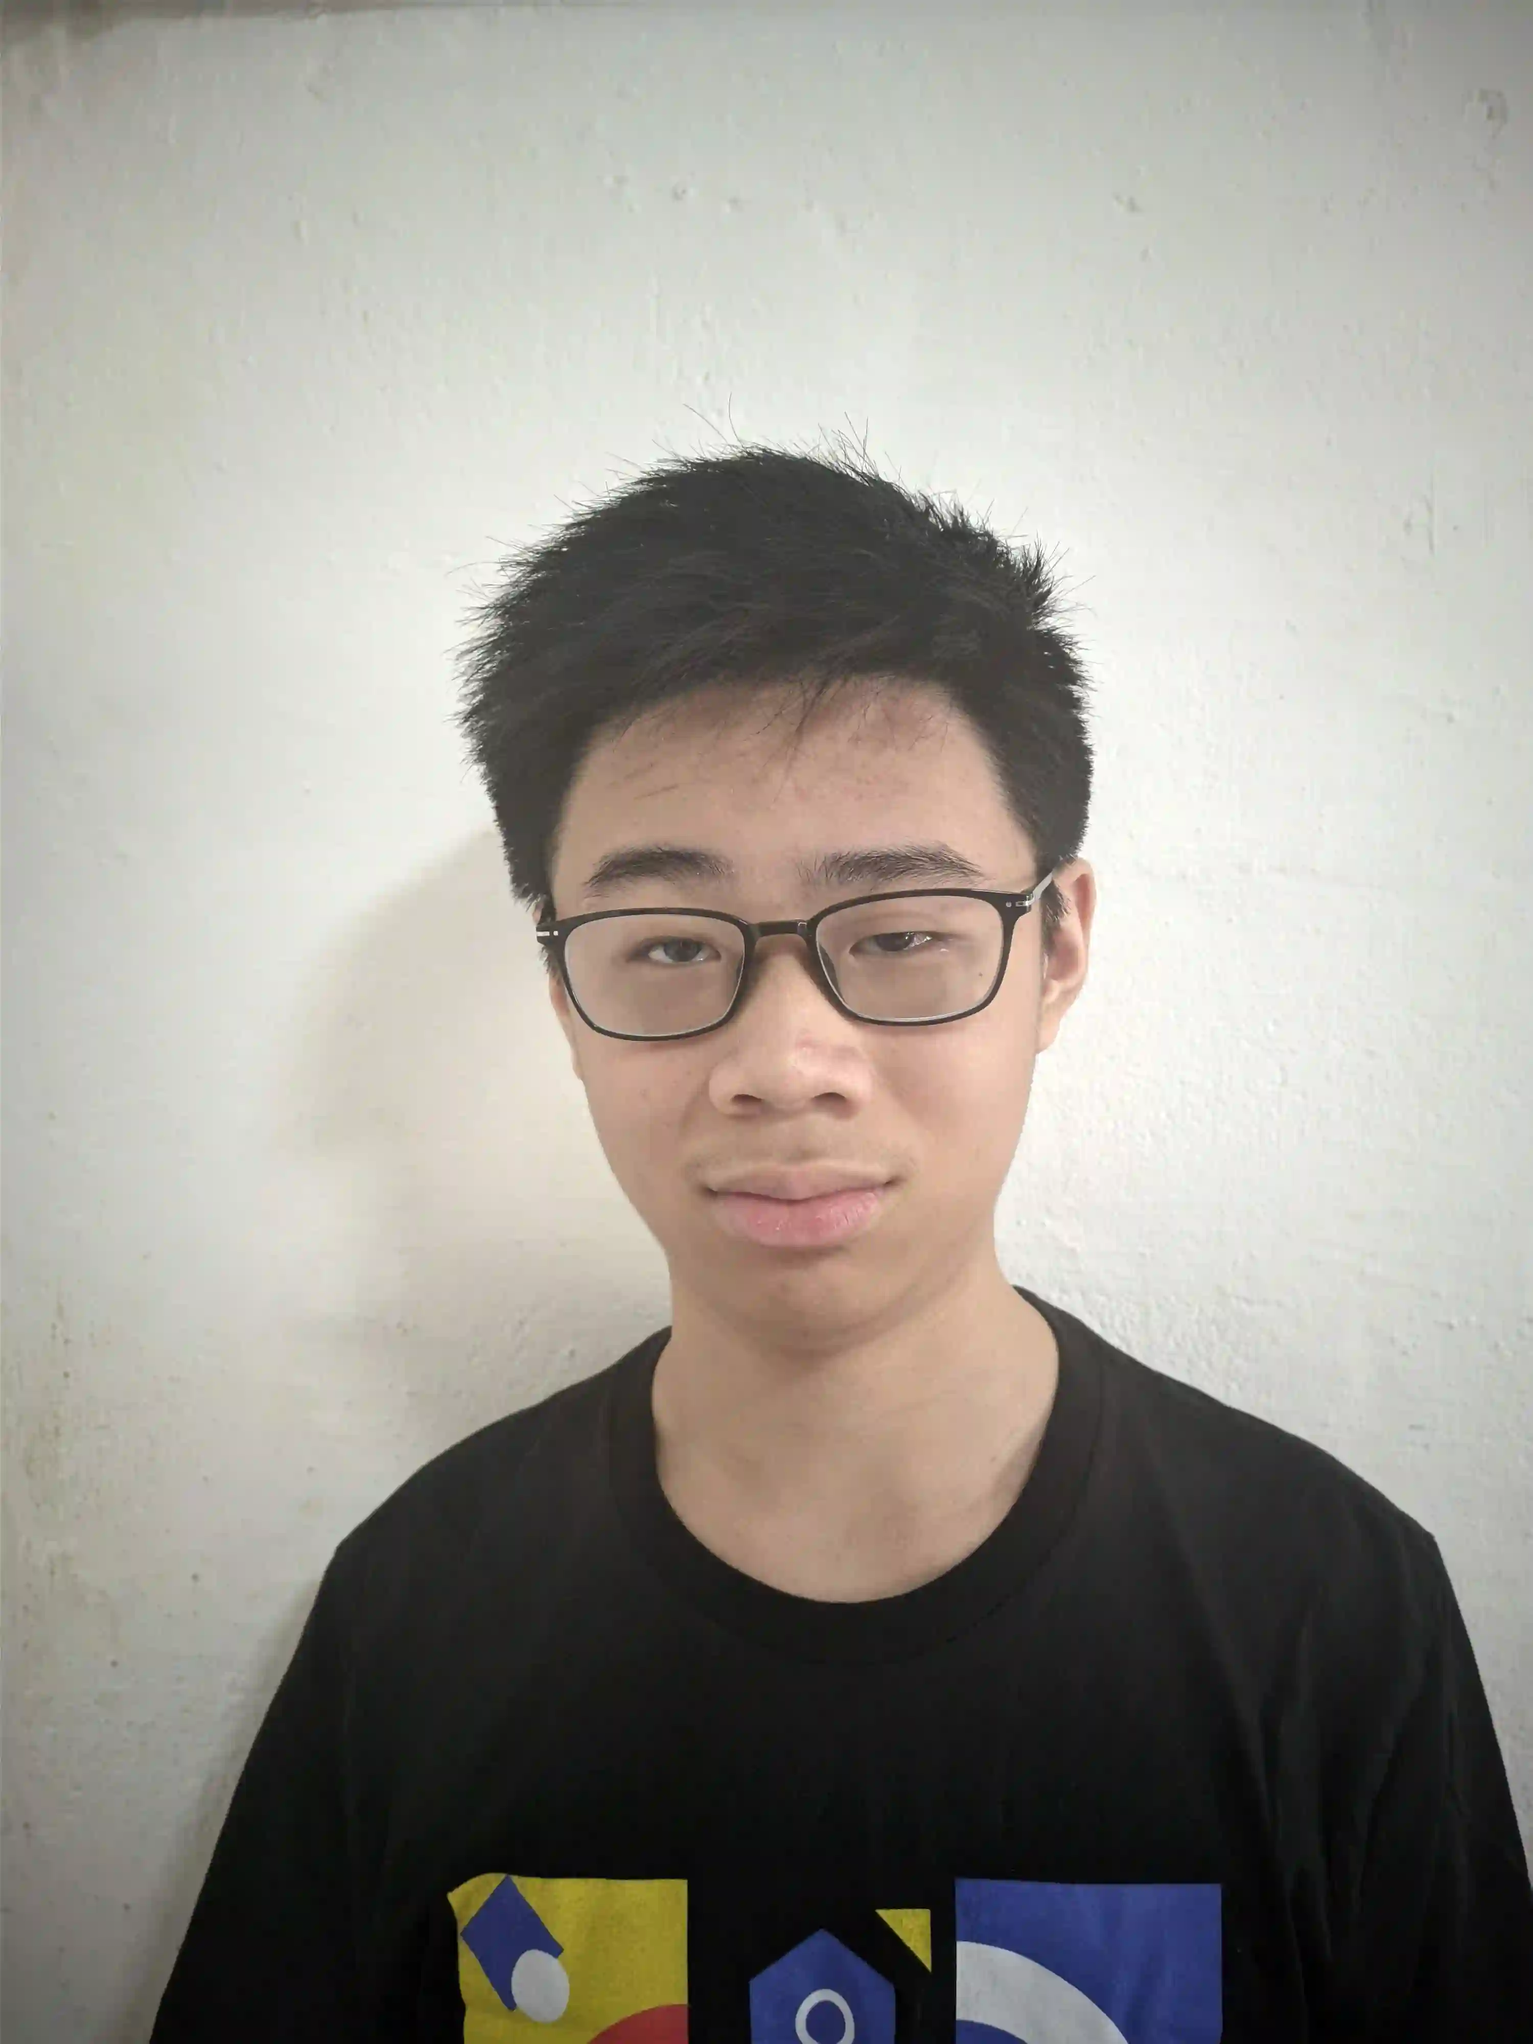
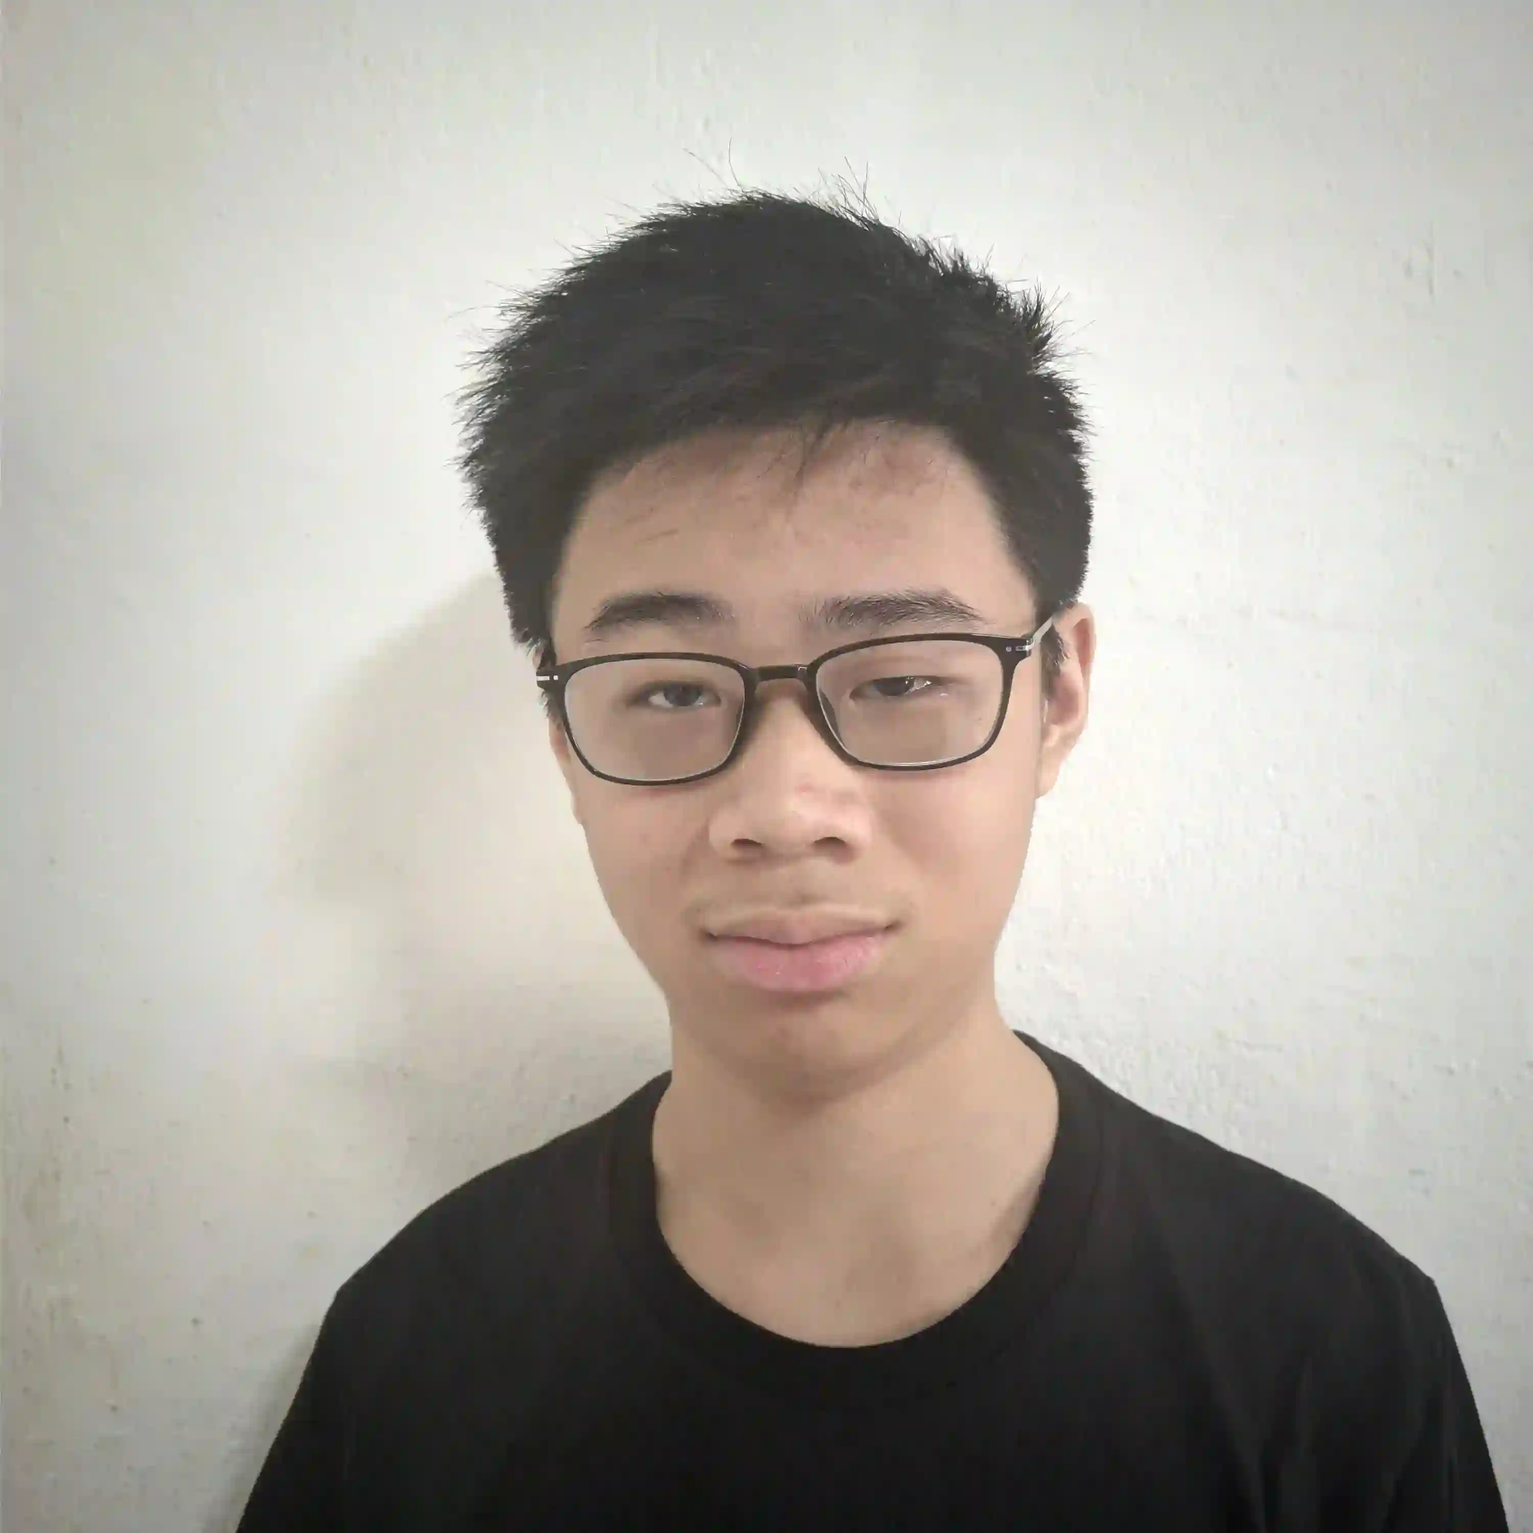
v1.6.2: updated team page for 2024 (#15)
* updated team page for 2024

* Convert /teams/ppl images to webp

* fix images with spaces in their filename

---------

diff --git a/pages/team.vue b/pages/team.vue
@@ -16,7 +16,7 @@
               </PageHead>
 
               
-            <TabGroup :defaultIndex="Object.keys(oics).indexOf(year)">
+            <TabGroup :defaultIndex="Object.keys(oics).indexOf(year.toString())">
               <TabList class="flex item-center rounded-xl w-96 justify-center mx-auto mb-8">
                 <Tab v-for="(category, index) in Object.keys(oics)"
                   as="template" :key="category" v-slot="{ selected }">
@@ -33,7 +33,7 @@
                 </Tab>
               </TabList>
               <TabPanels class="mt-2">
-                <TabPanel v-for="[year, oic] in Object.entries(oics)" :key="year" v-slot="{ selected }" class="p-3 focus:outline-none">
+                <TabPanel v-for="[year, oic] in Object.entries(oics)" :key="year.toString()" v-slot="{ selected }" class="p-3 focus:outline-none">
                   <div class="flex flex-wrap justify-center">
                     <TeamCard class="m-2" v-for="(teamMember, index) in oic" :key="index" :teamMember="teamMember"></TeamCard>
                   </div>
@@ -46,7 +46,7 @@
           </section>
 
           <div class="pt-24 pb-8 justify-center">
-            <TabGroup :defaultIndex="2">
+            <TabGroup :defaultIndex="nearestMonthIndex">
               <TabList class="flex item-center rounded-xl bg-orange-200 w-96 justify-center mx-auto mb-8">
                 <Tab v-for="(category, index) in sections"
                   as="template" :key="category" v-slot="{ selected }">
@@ -83,7 +83,7 @@
                 <div class="text-900 font-bold text-5xl mb-3 text-gray-900 dark:text-white">Join Our Team</div>
                 <div class="text-700 text-2xl mb-5 text-gray-600 dark:text-gray-400">Be a part of a team of organisers seeking to make an impact!</div>
                 <div class="align-center text-center justify-center flex">
-                  <NuxtLink href="https://go.buildingblocs.sg/organiser/signup" 
+                  <NuxtLink href="https://go.buildingblocs.sg/orgsignup24"
                     class="font-bold px-5 py-3 rounded-3xl w-28 bg-orange-400 hover:bg-orange-500 text-white flex justify-center items-center">
                     <!-- <IconsDiscord /><span class="ml-2">Join Now</span> -->
                     Sign Up!
@@ -104,25 +104,30 @@ import database from '~/assets/organisers.json'
 
 
 useSeoMeta({
-    title: 'Our Team - BuildingBloCS',
-    description: 'Ignite your passion in computing',
-    ogTitle: 'Our Team - BuildingBloCS',
-    ogDescription: 'Ignite your passion in computing',
-    ogImage: '/index/hero/img3png.webp',
-    ogUrl: 'https://buildingblocs.sg/team',
-    twitterTitle: 'Our Team - BuildingBloCS',
-    twitterDescription: 'Ignite your passion in computing',
-    twitterImage: '/index/hero/img3png.webp',
-    twitterCard: 'summary_large_image'
+  title: 'Our Team - BuildingBloCS',
+  description: 'Ignite your passion in computing',
+  ogTitle: 'Our Team - BuildingBloCS',
+  ogDescription: 'Ignite your passion in computing',
+  ogImage: '/index/hero/img3png.webp',
+  ogUrl: 'https://buildingblocs.sg/team',
+  twitterTitle: 'Our Team - BuildingBloCS',
+  twitterDescription: 'Ignite your passion in computing',
+  twitterImage: '/index/hero/img3png.webp',
+  twitterCard: 'summary_large_image'
 })
 
-const sections = ["Mar '23", "Jun '23", "Sep '23", "Dec '23"];
+const sections = ["Mar '24", "Jun '24", "Sep '24", "Dec '24"];
 
 const year = (new Date()).getFullYear();
 
+const nearestMonthIndex = sections.findIndex((month) => {
+  const monthDate = new Date(`${month} ${year}`);
+  return monthDate > new Date();
+});
+
 const oics = {
-  2023: ["oneytlam", "yauleqi", "prannay"].map(it => database[it]),
-  2024: ["duhan", "justinchee", "mahir"].map(it => database[it])
+  2024: ["duhan", "justinchee", "mahir"].map(it => database[it]),
+  2023: ["oneytlam", "yauleqi", "prannay"].map(it => database[it])
 }
 
 
@@ -130,109 +135,115 @@ const teamMembers = [
   { // March
     organisers: {
       "Human Resources": [
-        {name: "suraj", lead: true}, {name: "isaackok", lead: true}, {name: "ozk"}, {name: "eugene"}, {name: "dhanvine"}, {name: "tsk"}, {name: "vinita"}
+        {name: "vinita", lead: true}, {name: "eugene", lead: true}, {name: "jinen", lead: true}, {name: "kabir"}, {name: "johnson"}, {name: "raghavsriram"},
+        {name: "junhan"}, {name: "elston"}, {name: "dhanvine"}, {name: "matthiaskoh"}, {name: "saamiya"}
       ].map(it => ({...(database[it.name]), lead: it.lead || false})),
       "Quality Assurance": [
-        {name: "bryant", lead: true}, {name: "neil"}, {name: "shawn"}, {name: "jamestan"}, {name: "justinwang"}, 
-        {name: "sahana"}, {name: "cervon"}, {name: "vishal"}, {name: "yuanxi"}, {name: "junee"}, 
-        {name: "edwinliew"}, {name: "arthur"}, {name: "kimwee"}
+        {name: "ashley", lead: true}, {name: "neil", lead: true}, {name: "mahit"}, {name: "tpsean"}, {name: "claralee"},
+        {name: "jeffrey"}, {name: "kabir"}, {name: "hugo"}, {name: "tongyu"}, {name: "shivani"}, {name: "vijay"},
+        {name: "matthias"}, {name: "seelun"}, {name: "kashvi"}, {name: "jack"}, {name: "sindya"}
       ].map(it => ({...(database[it.name]), lead: it.lead || false})),
-      "Workshop Admin": [
-        {name: "kaiwen", lead: true}, {name: "zayan", lead: true}, {name: "jinen", lead: true}, {name: "duhan", lead: true},
-        {name: "jiaxuan"}, {name: "leducminh"}, {name: "jack"}, {name: "asha"}, {name: "ashley"}, {name: "kashvi"},
-        {name: "mahamantra"}, {name: "justinchee"}, {name: "ghayathri"}
+      "Adshop": [
+        {name: "dhanvine", lead: true}, {name: "ozk", lead: true}, {name: "weiyi", lead: true}, {name: "harry"}, {name: "zinedine"},
+        {name: "sindya"},{name: "lucius"}, {name: "kaiwen"}, {name: "ayden"}, {name: "sai"}, {name: "cayden"}, {name: "sahil"},
+        {name: "asha"}, {name: "edwinkoon"}, {name: "nikita"}, {name: "alyssa"}, {name: "raghavkumar"}, {name: "alexis"}, {name: "shengxin"}, {name: "kairos"},
       ].map(it => ({...(database[it.name]), lead: it.lead || false})),
-      "Publicity & Design": [
-        {name: "minjia", lead: true}, {name: "renoir", lead: true},
-        {name: "edwinliew"}, {name: "wayne"}, {name: "cervon"}, {name: "claralee"}, {name: "andrel"}, {name: "celine"},
-        {name: "lehan"}, {name: "sophiachua"}
+      "Publicity": [
+        {name: "minjia", lead: true}, {name: "lehan", lead: true},
+        {name: "sophiachua"}, {name: "angelina"}, {name: "trisha"}, {name: "julyan"}, {name: "peter"}, {name: "myat"}, {name: "claraong"}
       ].map(it => ({...(database[it.name]), lead: it.lead || false})),
-      "Team Starvation": [
-        {name: "seth", lead: true}, {name: "wenkai", lead: true}, {name: "yuanxi", lead: true},
-        {name: "kabir"}, {name: "mahir"}, {name: "jed"}, {name: "ishneet"}, {name: "zerui"}, {name: "weiyi"},
-        {name: "zedong"}, {name: "harry"}, {name: "danielchua"}, {name: "jinghong"}
+      "Development": [
+        {name: "myat", lead: true}, {name: "jeffrey"}, {name: "wenkai"},
+        {name: "jerome"}, {name: "yueheng"}, {name: "minghong"}, {name: "dylan"}
+      ].map(it => ({...(database[it.name]), lead: it.lead || false})),
+      "Outreach": [
+        {name: "zedong", lead: true}, {name: "nikita", lead: true},{name: "myat"}, {name: "angelina"}, {name: "kashvi"}
       ].map(it => ({...(database[it.name]), lead: it.lead || false})),
       "Workshop Speakers": [
-        "kaiwen", "zayan", "jinghong", "ian", "ishneet"
+        "shivani", "shengxin", "lucius", "dhanvine", "eugene", "mahit", "sahil", "harry", "zedong", "weiyi"
       ].map(it => database[it])
     }
   },
   { // June
-    exco: ["kaiwen", "zayan", "duhan", "jinen", "suraj", "bryant", "renoir", "seth", "yuanxi"].map(it => database[it]),
+    // exco: ["kaiwen", "zayan", "duhan", "jinen", "suraj", "bryant", "renoir", "seth", "yuanxi"].map(it => database[it]),
+    /*
     organisers: {
-      "Emcees": ["zayan", "mahit", "dhanvine"].map(it => database[it]),
+      // "Emcees": ["zayan", "mahit", "dhanvine"].map(it => database[it]),
       "Human Resources": [
-        {name: "suraj", lead: true}, {name: "isaackok", lead: true}, {name: "ozk"}, {name: "eugene"}, {name: "dhanvine"}, {name: "tsk"}, {name: "vinita"}
+        {name: "vinita", lead: true}, {name: "eugene", lead: true}, {name: "jinen", lead: true}, {name: "kabir"}, {name: "johnson"}, {name: "raghavsriram"},
+        {name: "junhan"}, {name: "elston"}, {name: "dhanvine"}, {name: "matthiaskoh"}, {name: "saamiya"}
       ].map(it => ({...(database[it.name]), lead: it.lead || false})),
       "Quality Assurance": [
-        {name: "bryant", lead: true}, {name: "neil"}, {name: "shawn"}, {name: "jamestan"}, {name: "justinwang"}, 
-        {name: "sahana"}, {name: "hnin"}, {name: "junee"}, 
-        {name: "edwinliew"}, {name: "arthur"}, {name: "mahit"}, {name: "kimwee"}, {name: "xiyuan"}, {name: "hugo"}
+        {name: "ashley", lead: true}, {name: "neil", lead: true}, {name: "mahit"}, {name: "tpsean"}, {name: "claralee"},
+        {name: "jeffrey"}, {name: "kabir"}, {name: "hugo"}, {name: "tongyu"}, {name: "shivani"}, {name: "vijay"},
+        {name: "matthias"}, {name: "seelun"}, {name: "kashvi"}, {name: "jack"}, {name: "sindya"}
       ].map(it => ({...(database[it.name]), lead: it.lead || false})),
-      "Workshop Admin": [
-        {name: "kaiwen", lead: true}, {name: "zayan", lead: true}, {name: "jinen", lead: true}, {name: "duhan", lead: true},
-        {name: "jiaxuan"}, {name: "leducminh"}, {name: "jack"}, {name: "asha"}, {name: "ashley"}, {name: "kashvi"}, {name: "justinchee"}
+      "Adshop": [
+        {name: "dhanvine", lead: true}, {name: "ozk", lead: true}, {name: "weiyi", lead: true}, {name: "harry"}, {name: "zinedine"},
+        {name: "sindya"},{name: "lucius"}, {name: "kaiwen"}, {name: "ayden"}, {name: "sai"}, {name: "cayden"}, {name: "sahil"},
+        {name: "asha"}, {name: "edwinkoon"}, {name: "nikita"}, {name: "alyssa"}, {name: "raghavkumar"}, {name: "alexis"}, {name: "shengxin"}, {name: "kairos"},
       ].map(it => ({...(database[it.name]), lead: it.lead || false})),
-      "Publicity & Design": [
-        {name: "minjia", lead: true}, {name: "renoir", lead: true},
-        {name: "edwinliew"}, {name: "wayne"}, {name: "claralee"}, {name: "andrel"}, {name: "celine"},
-        {name: "lehan"}, {name: "sophiachua"}
-      ].map(it => ({...(database[it.name]), lead: it.lead || false})),
-      "Hackathon": [
-        {name: "kabir", lead: true}, {name: "mahir", lead: true},
-        {name: "ashwin"}, {name: "jed"}, {name: "ishneet"}, {name: "pann"}
+      "Publicity": [
+        {name: "minjia", lead: true}, {name: "lehan", lead: true},
+        {name: "sophiachua"}, {name: "angelina"}, {name: "trisha"}, {name: "julyan"}, {name: "peter"}, {name: "myat"}, {name: "claraong"}
       ].map(it => ({...(database[it.name]), lead: it.lead || false})),
       "Development": [
-        {name: "seth", lead: true}, {name: "jerome"}, {name: "danielchua"}, {name: "peter"},
-        {name: "raymond"}, {name: "jinghong"}, {name: "rajharsh"}
+        {name: "myat", lead: true}, {name: "jeffrey"}, {name: "wenkai"},
+        {name: "shivreshi"}, {name: "jerome"}, {name: "yueheng"}, {name: "minghong"}, {name: "dylan"}
+      ].map(it => ({...(database[it.name]), lead: it.lead || false})),
+      "Outreach": [
+        {name: "zedong", lead: true}, {name: "nikita", lead: true},{name: "myat"}, {name: "angelina"}, {name: "kashvi"}
       ].map(it => ({...(database[it.name]), lead: it.lead || false})),
       "Workshop Speakers": [
-        "jamestan", "wayne", "edwinliew", "duhan", "dhanvine", "eugene", "kaiwen", "jinghong", "zayan", "jed", "seth", "ashwin", "weiyi", "zedong", "harry", "yuanxi", "mahir", "hugo", "wenkai", "ishneet"
+        // TBC
       ].map(it => database[it])
     }
+    */
   },
   { // September
-    exco: ["duhan", "mahir", "justinchee", "kaiwen", "wenkai", "minjia", "zedong"].map(it => database[it]),
+    // exco: ["duhan", "mahir", "justinchee", "kaiwen", "wenkai", "minjia", "zedong"].map(it => database[it]),
+    /*
     organisers: {
       "Human Resources": [
-        {name: "eugene", lead: true}, {name: "vinita", lead: true}, 
-        {name: "johnson"}, {name: "junhan"}, {name: "elston"}, {name: "saamiya"},
-        {name: "dhanvine"}, {name: "raghavsriram"}, {name: "kabir"}
+        {name: "vinita", lead: true}, {name: "eugene", lead: true}, {name: "jinen", lead: true}, {name: "kabir"}, {name: "johnson"}, {name: "raghavsriram"},
+        {name: "junhan"}, {name: "elston"}, {name: "dhanvine"}, {name: "matthiaskoh"}, {name: "saamiya"}
       ].map(it => ({...(database[it.name]), lead: it.lead || false})),
       "Quality Assurance": [
-        {name: "neil", lead: true}, {name: "ashley", lead: true}, 
-        {name: "tpsean"}, {name: "claralee"}, {name: "matthias"},
-        {name: "weiyi"}, {name: "hugo"}, {name: "kabir"}, {name: "tongyu"},
-        {name: "jack"}, {name: "kashvi"}, {name: "shivani"}, {name: "vijay"}, 
-        {name: "jeffrey"}, {name: "seelun"}
+        {name: "ashley", lead: true}, {name: "neil", lead: true}, {name: "mahit"}, {name: "tpsean"}, {name: "claralee"},
+        {name: "jeffrey"}, {name: "kabir"}, {name: "hugo"}, {name: "tongyu"}, {name: "shivani"}, {name: "vijay"},
+        {name: "matthias"}, {name: "seelun"}, {name: "kashvi"}, {name: "jack"}, {name: "sindya"}
       ].map(it => ({...(database[it.name]), lead: it.lead || false})),
-      "Workshop Admin": [
-        {name: "justinchee", lead: true}, {name: "duhan", lead: true}, {name: "kaiwen", lead: true}, {name: "zedong", lead: true},
-        {name: "nikita"}, {name: "shengxin"}, {name: "cayden"},
-        {name: "harry"}, {name: "ozk"}, {name: "kairos"}, {name: "alexis"}, 
-        {name: "ayden"}, {name: "edwinkoon"}, {name: "raghavkumar"}, {name: "sai"},
-        {name: "lucius"}, {name: "dhanvine"}, {name: "alyssa"}, {name: "weiyi"}
+      "Adshop": [
+        {name: "dhanvine", lead: true}, {name: "ozk", lead: true}, {name: "weiyi", lead: true}, {name: "harry"}, {name: "zinedine"},
+        {name: "sindya"},{name: "lucius"}, {name: "kaiwen"}, {name: "ayden"}, {name: "sai"}, {name: "cayden"}, {name: "sahil"},
+        {name: "asha"}, {name: "edwinkoon"}, {name: "nikita"}, {name: "alyssa"}, {name: "raghavkumar"}, {name: "alexis"}, {name: "shengxin"}, {name: "kairos"},
       ].map(it => ({...(database[it.name]), lead: it.lead || false})),
-      "Publicity & Design": [
+      "Publicity": [
         {name: "minjia", lead: true}, {name: "lehan", lead: true},
-        // {name: "julyan"}, {name: "trisha"},
-        {name: "myat"}, {name: "sophiachua"},
-        // {name: "claraong"}, {name: "angelina"},
-        {name: "peter"}, {name: "asha"}
+        {name: "sophiachua"}, {name: "angelina"}, {name: "trisha"}, {name: "julyan"}, {name: "peter"}, {name: "myat"}, {name: "claraong"}
+      ].map(it => ({...(database[it.name]), lead: it.lead || false})),
+      "Development": [
+        {name: "myat", lead: true}, {name: "jeffrey"}, {name: "wenkai"},
+        {name: "shivreshi"}, {name: "jerome"}, {name: "yueheng"}, {name: "minghong"}, {name: "dylan"}
+      ].map(it => ({...(database[it.name]), lead: it.lead || false})),
+      "Outreach": [
+        {name: "zedong", lead: true}, {name: "nikita", lead: true},{name: "myat"}, {name: "angelina"}, {name: "kashvi"}
       ].map(it => ({...(database[it.name]), lead: it.lead || false})),
       "Workshop Speakers": [
-        "duhan", "cervon", "justinchee", "zedong", "ozk", "harry", "wenkai", "bobby", "mayukh", "myat", "sai", "raghavkumar",
-        "mahir", "hugo", "yuanxi", "kabir", "neil"
+        // TBC
       ].map(it => database[it])
     }
+    */
   },
   { // December
     // exco: ["yuanxi", "zerui", "kashvi", "asha"].map(it => database[it]),
+    /*
     organisers: {
       "Challenge Setters": ["yuanxi", "zerui", "junheng", "christian", "jerome", "justinlim"].map(it => database[it]),
       "Infrastructure and Platform": ["vincent", "zerui"].map(it => database[it]),
       "Publicity and Relations": ["kashvi", "asha"].map(it => database[it])
     }
+    */
   }
 ]
 

diff --git a/pages/events.vue b/pages/events.vue
@@ -89,13 +89,13 @@ const events = [
 ]
 
 useSeoMeta({
-    title: 'Events - BuildingBloCS 2023',
+    title: 'Events - BuildingBloCS 2024',
     description: 'Ignite your passion in computing',
-    ogTitle: 'Events - BuildingBloCS 2023',
+    ogTitle: 'Events - BuildingBloCS 2024',
     ogDescription: 'Ignite your passion in computing',
     ogImage: '/index/hero/img3jpg.webp',
     ogUrl: 'https://buildingblocs.sg/events',
-    twitterTitle: 'Events - BuildingBloCS 2023',
+    twitterTitle: 'Events - BuildingBloCS 2024',
     twitterDescription: 'Ignite your passion in computing',
     twitterImage: '/index/hero/img3jpg.webp',
     twitterCard: 'summary_large_image'

diff --git a/pages/default.vue b/pages/default.vue
@@ -1,8 +1,7 @@
 <template>
     <div class="bg-white dark:bg-slate-800">
-
         <head>
-            <title>Default - BuildingBlocs 2023</title>
+            <title>Default - BuildingBlocs 2024</title>
         </head>
         <div>
             <Nav />
@@ -52,5 +51,3 @@
         </div>
     </div>
 </template>
-<script setup lang="ts">
-</script>

diff --git a/components/footer.vue b/components/footer.vue
@@ -97,11 +97,6 @@ const links = [
     link: '/partners',
     class: linkStyle
   },
-  {
-    title: 'Past Years',
-    link: '/default',
-    class: linkStyle
-  },
   // {
   //   title: 'Register <span aria-hidden="true">&rarr;</span>',
   //   link: '/events/ctf',
